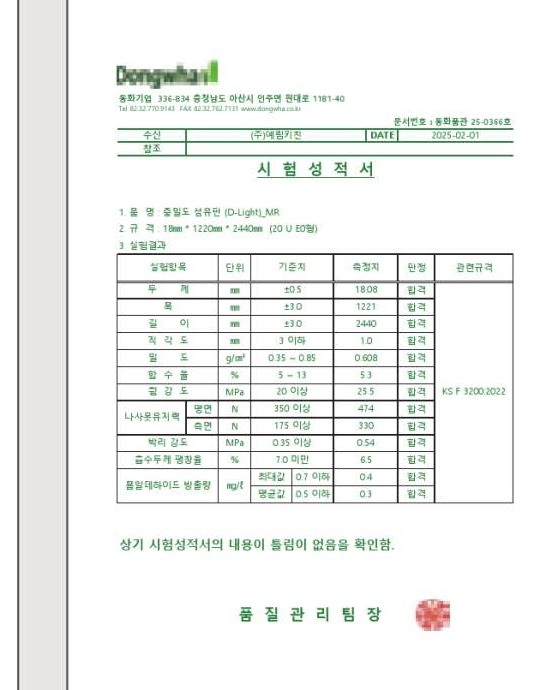
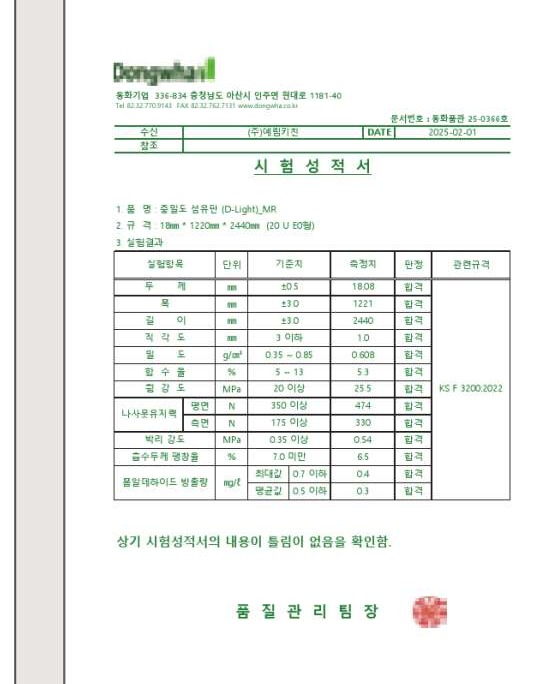
fix(material): 시험 성적서 찌그러짐 + 베이지 줄무늬 수정
- E0: 원본 비율 유지 (리사이즈 제거), object-fit: contain으로 표시
- MR: 가장자리 3px 추가 크롭으로 베이지 줄무늬 제거
- CSS: cert-img-wrap으로 카드 높이 통일 + 이미지 비율 보존

diff --git a/material.html b/material.html
@@ -242,19 +242,28 @@
         flex-wrap: wrap;
       }
       .test-cert-card {
-        flex: 1;
-        min-width: 200px;
-        max-width: 280px;
+        flex: 0 1 auto;
+        width: 240px;
         background: #fff;
         text-align: center;
         border: 1px solid #d0d0d0;
         box-shadow: 2px 3px 8px rgba(0,0,0,0.12), 0 1px 2px rgba(0,0,0,0.06);
-        position: relative;
+        display: flex;
+        flex-direction: column;
+      }
+      .test-cert-card .cert-img-wrap {
+        flex: 1;
+        display: flex;
+        align-items: center;
+        justify-content: center;
+        padding: 10px;
+        min-height: 300px;
       }
       .test-cert-card img {
-        width: 100%;
+        max-width: 100%;
+        max-height: 100%;
         display: block;
-        padding: 8px;
+        object-fit: contain;
       }
       .test-cert-card span {
         display: block;
@@ -764,11 +773,11 @@
           <h4>흡수 두께 팽창률 시험 성적서</h4>
           <div class="test-certs-grid">
             <div class="test-cert-card">
-              <img src="app/material/cert-18t-e0.jpg" alt="18T E0 보드 성적서" loading="lazy" />
+              <div class="cert-img-wrap"><img src="app/material/cert-18t-e0.jpg" alt="18T E0 보드 성적서" loading="lazy" /></div>
               <span>18T E0 보드 성적서</span>
             </div>
             <div class="test-cert-card">
-              <img src="app/material/cert-18t-mr.jpg" alt="18T E0 MR 보드 성적서" loading="lazy" />
+              <div class="cert-img-wrap"><img src="app/material/cert-18t-mr.jpg" alt="18T E0 MR 보드 성적서" loading="lazy" /></div>
               <span>18T E0 MR 보드 성적서</span>
             </div>
           </div>
@@ -974,11 +983,11 @@
       <div class="test-certs" style="margin-top: 48px;">
         <div class="test-certs-grid" style="justify-content: center;">
           <div class="test-cert-card">
-            <img src="app/material/cert-decor.jpg" alt="GREENGUARD - Edgeband Décor" loading="lazy" />
+            <div class="cert-img-wrap"><img src="app/material/cert-decor.jpg" alt="GREENGUARD - Edgeband Décor" loading="lazy" /></div>
             <span>Edgeband D&eacute;cor</span>
           </div>
           <div class="test-cert-card">
-            <img src="app/material/cert-uni.jpg" alt="GREENGUARD - Edgeband Uni" loading="lazy" />
+            <div class="cert-img-wrap"><img src="app/material/cert-uni.jpg" alt="GREENGUARD - Edgeband Uni" loading="lazy" /></div>
             <span>Edgeband Uni</span>
           </div>
         </div>
